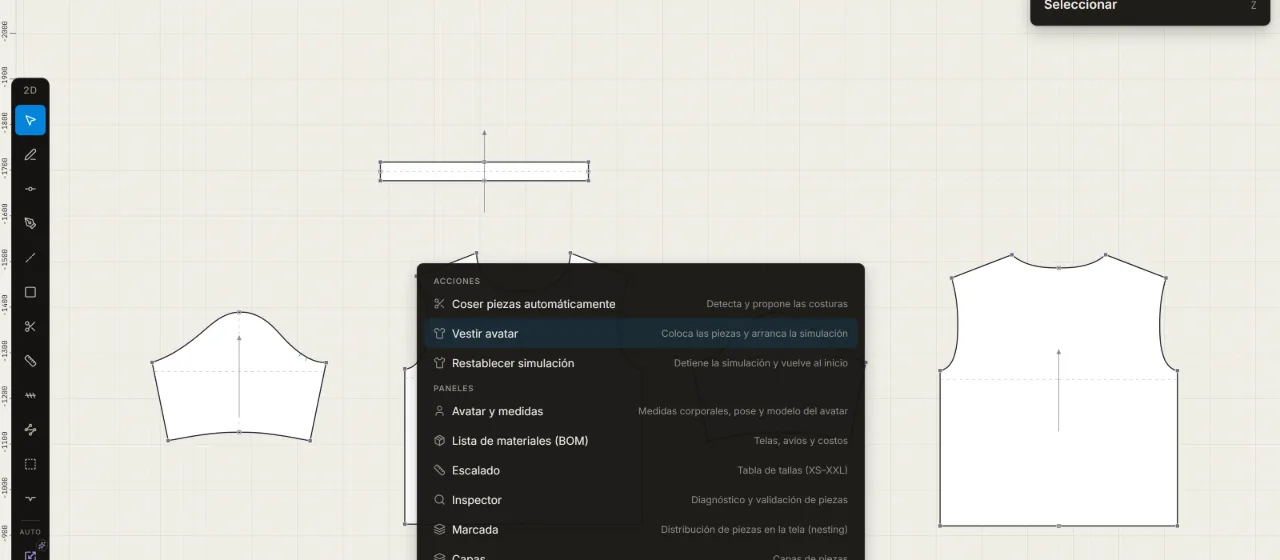
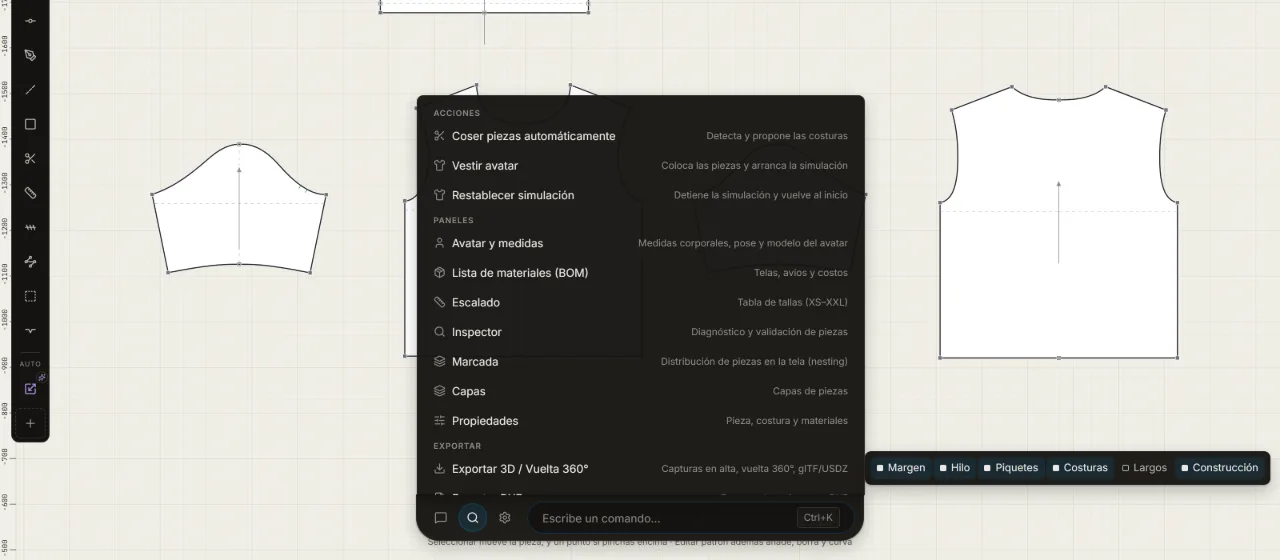
fix(home): la Fig 0.2 enseña la paleta entera, con su campo y el grupo Exportar
El recorte «centrado al 30 %» del plan dejaba fuera la barra de comandos:
la paleta se abre hacia arriba desde la barra de abajo. Ahora el recorte se
ancla a la paleta y a la barra, y el script falla si no caben en las 700
filas en vez de cambiar el tamaño de la figura. El puntero se aparta antes
de la captura (ninguna fila resaltada). --sin-poster regenera sin simular.

diff --git a/home/home.css b/home/home.css
@@ -86,7 +86,7 @@ h2 { margin-top: 10px; font-size: 32px; line-height: 1.1; font-weight: 500; lett
 .intro { margin-top: 14px; font-size: 17px; color: var(--tinta-70); max-width: 560px; }
 .fig { margin-top: 40px; }
 .fig img { display: block; width: 100%; height: 620px; object-fit: cover; object-position: top; border: 1px solid var(--hairline); border-radius: 4px; }
-.fig img.fig-02 { height: 560px; object-position: center 30%; }
+.fig img.fig-02 { height: 560px; }
 .figcap { margin-top: 12px; font-size: 12px; color: var(--tinta-70); display: flex; justify-content: space-between; gap: 16px; }
 .cols { margin-top: 56px; display: grid; grid-template-columns: repeat(3, 1fr); column-gap: 32px; }
 .cols > div { padding-top: 18px; border-top: 1px solid var(--hairline); }
